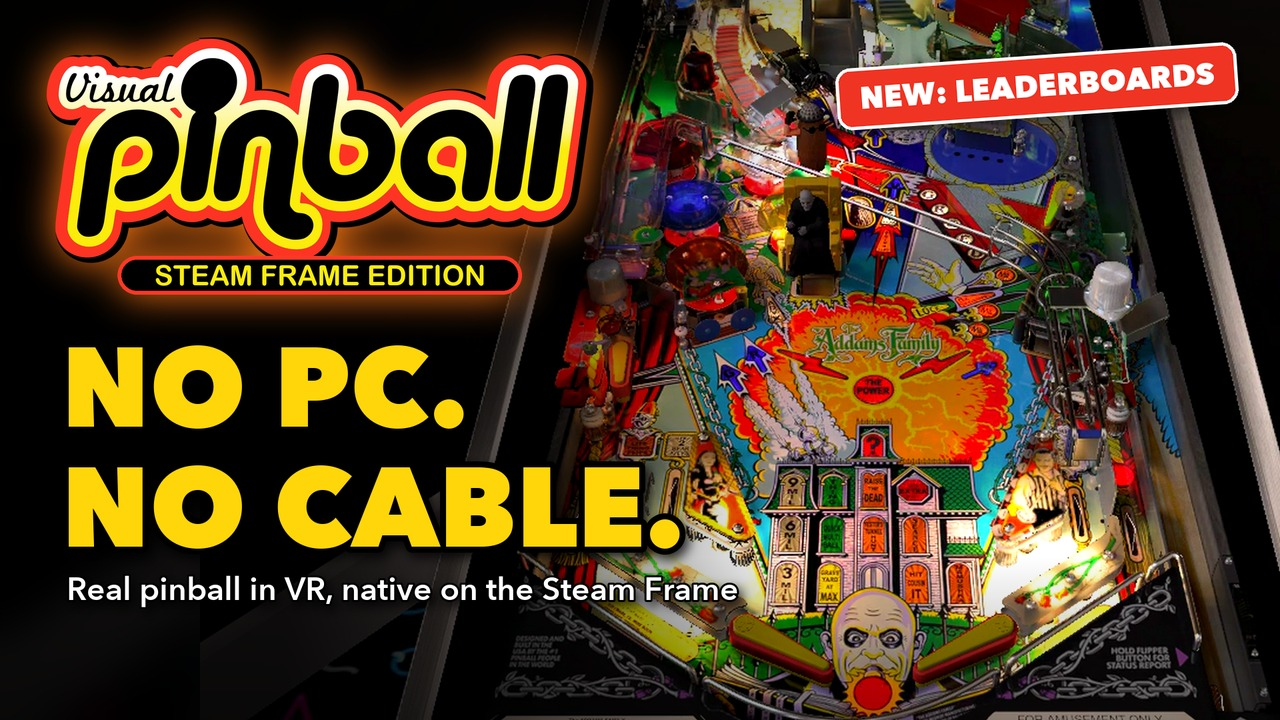
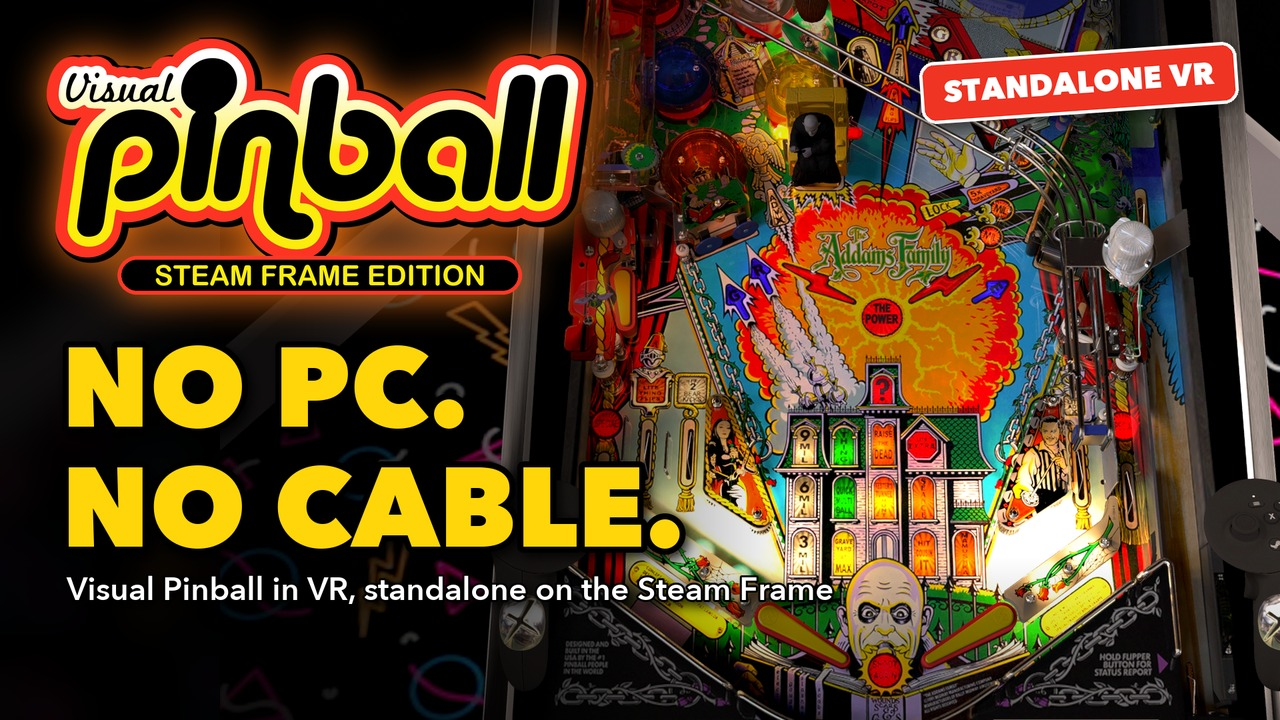
fixup! Steam Frame: README, documentation and sync tools of the fork

diff --git a/.github/README.md b/.github/README.md
@@ -9,9 +9,9 @@ An independent fork of [Visual Pinball X](https://github.com/vpinball/vpinball) 
 > [!CAUTION]
 > **This fork is not endorsed by, affiliated with, or supported by the Visual Pinball team or community.** It is developed with extensive AI-assisted coding, which is why it is kept apart from the official project. Please do **not** ask support questions about it in the Visual Pinball repositories, Discord servers or community forums: report problems and ask questions in [this fork's issues](https://github.com/SPD13/vpinball-steam-frame/issues). The official project is [vpinball/vpinball](https://github.com/vpinball/vpinball).
 
-[![Visual Pinball X, Steam Frame Edition: the trailer](/docs/img/steam-frame-trailer.jpg)](https://youtu.be/g_C8ryf-UP0)
+[![Visual Pinball X, Steam Frame Edition: the trailer](/docs/img/steam-frame-trailer.jpg)](https://youtu.be/YvKycmiTYIY)
 
-**▶ [Watch the trailer](https://youtu.be/g_C8ryf-UP0)** (2:35): tables in the headset, the table picker, the web companion, scores and leaderboards, the Frame controllers, performance and eye-tracked foveated rendering.
+**▶ [Watch the trailer](https://youtu.be/YvKycmiTYIY)** (2:11): the VR version, with the VR menu and table search, Steam Frame tuning and eye-tracked foveated rendering, uploading tables over Wi-Fi, player profiles and online scores, the installer and one-click updates.
 
 ## What the player gets
 

diff --git a/docs/Steam Frame Branch.md b/docs/Steam Frame Branch.md
@@ -2,9 +2,9 @@
 
 This branch of the fork `SPD13/vpinball-steam-frame` prepares Visual Pinball's standalone player for the Valve Steam Frame (SteamOS on ARM64, SteamVR's OpenXR runtime, Vulkan), and adds a table launcher that works from inside the headset. It starts from upstream commit `fd5e18d` (10.8.1 beta).
 
-[![Visual Pinball, Steam Frame Edition: the trailer](img/steam-frame-trailer.jpg)](https://youtu.be/g_C8ryf-UP0)
+[![Visual Pinball, Steam Frame Edition: the trailer](img/steam-frame-trailer.jpg)](https://youtu.be/YvKycmiTYIY)
 
-**▶ [Watch the trailer](https://youtu.be/g_C8ryf-UP0)** (2:35): tables in the headset, the table picker, the web companion, scores and leaderboards, the Frame controllers, performance and eye-tracked foveated rendering.
+**▶ [Watch the trailer](https://youtu.be/YvKycmiTYIY)** (2:11): the VR version, with the VR menu and table search, Steam Frame tuning and eye-tracked foveated rendering, uploading tables over Wi-Fi, player profiles and online scores, the installer and one-click updates.
 
 This document lists everything the branch changes, where, and how far each part has been checked.
 
